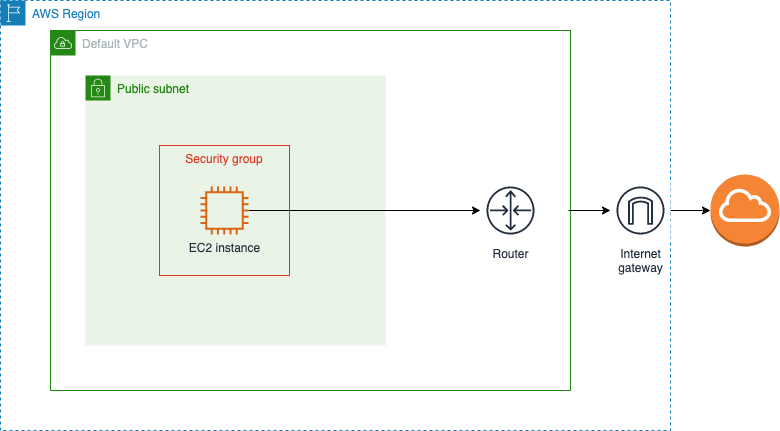
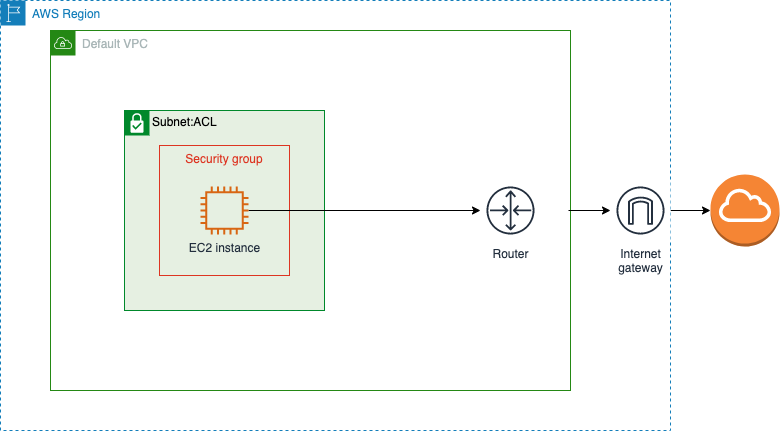
create new blog post and new infrastructure for secure vpc

Changed region(s): [[0.0923, 0.1508, 0.4923, 0.8144]]

diff --git a/blog/blog1.md b/blog/blog1.md
@@ -1,14 +1,16 @@
-# What happens when you create an EC2 instance?
+# Building a secure network in AWS (PART 1)
 
-In this post we will discuss what happens in the background when we create an EC2 instance in AWS. This would be an introductory post for another article about architecting a secure solution in a secure network in the cloud.
+Assume you've been asked to create a VM on AWS to run some critical operations for your business; it needs to access the internet, but only can be accessed by the maintainers (e.g. people/services who would want to install/upgrade the software). How would you do it?
 
-Why is that important?
+This is a series of 2 posts. In the first post, we will go over what happens when you create an EC2 instance (VM) in AWS; it would be an introductory post for another article about architecting a secure solution in a secure network in the cloud.
+
+_Why is that important?_
 
 When building solutions in the cloud, it is critical to keep security in mind. In fact, it's critical to keep it as a high priority, if not the highest.
 
 Also, I would like to highlight the importance of keeping resources within private subnets in AWS (or in any other cloud), as that's something I used to ignore as I implemented solutions progressively in the past. However, as the system scales it would be much more difficult to adjust and change these configurations.
 
-For this example, we would want to build a server that has outbound access to the internet, but denies inbound traffic except for engineers who needs to maintain that server through SSH.
+As mentioned earlier, in this example, we would want to build a server that has outbound access to the internet but denies inbound traffic except for maintainers through SSH.
 
 ## Create an EC2 instance
 
@@ -41,11 +43,11 @@ Open the AWS console, and navigate to CloudFormation. Check the events: ![CloudF
 
 Below is a set of operations executed behind the scenes when we create an EC2 instance this way (After this list we will each component explaining its functionality, which would give more familiarity with the user terms):
 
-- Obviously the VM itself got created. Navigate to EC2 and note the creation of the EC2 instance.![EC2 instance](2.EC2-Instance.png)
+- Obviously, the VM itself got created. Navigate to EC2 and note the creation of the EC2 instance.![EC2 instance](2.EC2-Instance.png)
 - Select the instance and navigate to the "Networking" tab. Note how the instance got created in a VPC and a subnet, without us explicitly specifying it.![EC2 instance - network tab](3.EC2-Instance-Network-Tab.png)
 - Navigate to the Security tab. Note that the default security group is attached to the created instance.
-  - This security group has outbound rules showing `0.0.0.0/0` as destination --> this means traffic from this instance can go to the public internet
-  - This security group has inbound rules showing all from src equal to the same security --> this means this security group is only accessible from other resources within the same security group
+  - This security group has outbound rules showing `0.0.0.0/0` as destination --> this means traffic from this instance can go to the public internet.
+  - This security group has inbound rules showing all from src equal to the same security --> this means this security group is only accessible from other resources within the same security group.
     ![EC2 instance - Security tab](4.EC2-Instance-Security-Tab.png)
 
 ## SSH to the instance
@@ -56,22 +58,26 @@ Before getting into the explanation of these components, let us try to connect t
   - This allows a simple and secure way to connect to the created EC2 instance using Secure Shell (SSH), without needing to share keys
   - The newly opened tab shows the following error: ![Connection Error](5.EC2-Connect-SSH-Error.png)
     This is because the inbound access is only allowed from resources within the same security group. To overcome that, we can edit the inbound rule on the security group to allow ssh access from your own IP address only: ![Allow SSH](6.EC2-Security-Group-Allow-SSH.png)
-    This works perfectly. Try to connect again. A shell opens now in the new tab with a successful ssh connection to the instance. Type `ping 1.1.1.1` and you should get a result.
+  - Try to connect again. A shell opens now in the new tab with a successful ssh connection to the instance. Type `ping 1.1.1.1` and you should get a result.
 
 This shows us that we are able to connect to the internet from within the instance, and we can securely SSH to the instance. This was all handled on the security level group, which should be the last level of defense ideally. How to do this in a better manner? This will be the topic of the following blog post - but would love to get your thoughts until then.
 
 ## What are all of these components that got attached/utilised?
 
-In this section we will set out in details what are these components that got created when we created our EC2 instance.
+In this section we will set out in details these components that got attached when we created our EC2 instance.
 
-First, it is worth mentioning that the EC2 service in AWS is a private service. This means it is not connected to the internet by default (this has nothing to do with the ability to access it or not, but purely related to its network setup); As you've seen in the previous post, we got some other configuration in place to get a proper connection to our EC2 instance.
+First, it is worth mentioning that the EC2 service in AWS is a private service. This means it is not connected to the internet by default (this has nothing to do with the ability to access it or not, but purely related to its network setup); As you've seen in the previous section, we got some other configuration in place to get a proper connection to our EC2 instance.
+
+In summary, The full set of used components would look something similar to the following diagram: ![Default VPC](8.EC2-instance-default-VPC.png).
+
+Below are some additional details.
 
 ### VPC - We got a VPC (Virtual private network) attached to our instance
 
-A VPC is an AWS service where your create a private isolated network. In this network you can define network addresses for your infrastructure among other details.
+A VPC is an AWS service where you create a private isolated network. In this network, you can define network addresses for your infrastructure among other details.
 
-- That's the default VPC that gets created automatically when you create an AWS account
-- The VPC is a regional service, so you would find a different default VPC in every region. The VPC attached to the EC2 instance is the one that got created in the same region having that instance
+- That's the default VPC that gets created automatically when you create an AWS account.
+- The VPC is a regional service, so you would find a different default VPC in every region. The VPC attached to the EC2 instance is the one that got created in the same region having that instance.
 
 ### Subnet
 
@@ -83,7 +89,7 @@ The default VPC has multiple subnets (one subnet in each Availability Zone of th
 
 Every VPC has a router that is used to route the traffic between subnets and controlled by a route table. When traffic leaves the subnet, the VPC router checks the destination field of the route and determines where to send to traffic using the target field.
 
-The following table shows that all traffic with destination IPs in the `172.31.0.0/16` network will target local, that's the VPC. Traffic with destination `0.0.0.0/0` will target the internet gateway: ![Route Table](7.Route-table.png)
+The following table shows that all traffic with destination IPs in the `172.31.0.0/16` network will target local, that's the VPC network. Traffic with destination `0.0.0.0/0` will target the internet gateway: ![Route Table](7.Route-table.png)
 
 ### Internet Gateway
 
@@ -91,12 +97,12 @@ It's a gateway that allows communication between the VPC and the internet.
 
 ### NACL
 
-That's the network access control list, which provides a layer of security or filtering of traffic around the subnet. By default, it allows all inbound and outbound traffic. Each subnet in the VPC is associated with this NACL. It is possibly to explicity configure it to allow or deny a certain traffic.
+That's the network access control list, which provides a layer of security or filtering of traffic around the subnet. By default, it allows all inbound and outbound traffic. Each subnet in the VPC is associated with this NACL. It is possible to explicitly configure it to allow or deny certain traffic.
 
 ### Security Group
 
-A security group also filters the trafic, but handles security differently from NACLs. By default, the Security Group has an implicit deny rule for all incoming traffic, and allows all outbound traffic. It is not possible to explicity deny traffic in a security group such as stopping traffic coming from a certain IP (that's when we use NACL)
+A security group also filters the traffic but handles security differently from NACLs. By default, the Security Group has an implicit deny rule for all incoming traffic and allows all outbound traffic. It is not possible to explicitly deny traffic in a security group such as stopping traffic coming from a certain IP (that's when we use NACL).
 
-In summary, the full setof used components would look somethig similar to the following diagram:![Default VPC](8.EC2-instance-default-VPC.png).
+I hope this was helpful. How would you suggest configuring the network the next time you are asked to create an EC2 instance?
 
-I hope this was helpful. How would you suggest to configure the network the next time you are asked to create an EC2 instance?
+Watch this space for the second part.

diff --git a/blog/blog2.md b/blog/blog2.md
@@ -1,0 +1,142 @@
+# Building a secure network in AWS (PART 2)
+
+Assume you've been asked to create a VM on AWS to run some critical operations for your business; it needs to access the internet, but only can be accessed by the maintainers (e.g. people/services who would want to install/upgrade the software). How would you do it?
+
+This is a series of 2 posts. In the first post, we went over what happens when we create an EC2 instance (VM) in AWS, where we explained how the instance gets attached to the default VPC and the traffic gets routed.
+
+In this second post, we will go over creating a full secure network where the newly created VM will operate.
+
+_Why can't we just use the default vpc?_
+The default VPC is available to get users started quickly without thinking about the underlying network. So it works great if you are doing some simple deployments, or If you are testing or experimenting in AWS.
+
+The default VPC has multiple components associated with it, such as subnets, NACLs, Security Group and Route table. Some of these component are open publicly, which does not form the most solid security practice.
+
+Moreover, using the default VPC will limit the user to using the `172.31.0.0/116` range. By having a custom VPC the customer will be able to tailor the network exactly and avoid overlapping IP addresses, including on-premise networks
+
+It is recommended to configure a custom VPC, where the user has full control over the network model and its components. This makes it easier to scale the application and architecture within private subnets.
+
+## Setup a Custom VPC
+
+In this section we will start by creating the necessary resources progressively using cloud formation. At every step of this section, I suggest you upload the template to CloudFromation and have a look at the resources that get created with the stack. Use the following command at your convenience (or upload the template manually from the console):
+
+To create the stack - `aws cloudformation create-stack --stack-name private-network --template-body file://infra/template-custom-vpc.yml`
+
+To update the stack - `aws cloudformation update-stack --stack-name private-network --template-body file://infra/template-custom-vpc.yml`
+
+### Create the VPC
+
+Use the following template to create the custom VPC:
+
+```
+Resources:
+  VPC:
+    Type: AWS::EC2::VPC
+    Properties:
+      CidrBlock: 192.168.0.0/16
+      EnableDnsSupport: true
+      EnableDnsHostnames: true
+      Tags:
+        - Key: Name
+          Value: awesome-vpc
+```
+
+In this previous snippet, we have given a name for the VPC, a CidrBlock that defines the range of IPS that could be utilised (in this case from 192.168.0.0 to 192.168.255.255). When setting the EnableDnsSupport and EnableDnsHostnames flags to true, the instances with a public IP address get corresponding public DNS hostnames, and the Amazon Route 53 Resolver server can resolve Amazon-provided private DNS hostname. If you're curious to know more check the detailed AWS documentation: https://docs.aws.amazon.com/vpc/latest/userguide/vpc-dns.html.
+
+### Create the Internet Gateway
+
+In the template file, under "Resources", add the following:
+
+```
+  InternetGateway:
+    Type: 'AWS::EC2::InternetGateway'
+    Properties:
+      Tags:
+      - Key: Name
+        Value: awesome-internet-gateway
+```
+
+This would create the internet gateway, but it won't be attached to a VPC: ![Internet Gateway](A.Internet-Gateway.png)
+
+Add the following resource to your template to attach the internet gateway to the created VPC:
+
+```
+  VpcInternetGatewayAttachment:
+    Type: 'AWS::EC2::VPCGatewayAttachment'
+    Properties:
+      VpcId: !Ref VPC
+      InternetGatewayId: !Ref InternetGateway
+```
+
+### Subnets
+
+Afterwards, we will create 2 subnets, one private and one public - the private one will contain our EC2 instance and the other can connect to the internet through the internet gateway.
+
+```
+  SubnetPrivate:
+    Type: AWS::EC2::Subnet
+    Properties:
+      VpcId: !Ref VPC
+      AvailabilityZone: !Select [ 0, !GetAZs '' ]
+      CidrBlock: 192.168.0.0/17
+      Tags:
+        - Key: Name
+          Value: subnet-private
+  SubnetPublic:
+    Type: AWS::EC2::Subnet
+    Properties:
+      VpcId: !Ref VPC
+      AvailabilityZone: !Select [ 0, !GetAZs '' ]
+      CidrBlock: 192.168.128.0/17
+      MapPublicIpOnLaunch: true
+      Tags:
+        - Key: Name
+          Value: subnet-public
+```
+
+When creating a subnet we do not deicde whether it's private or public through a configuration on creation, so for this step these are the subnets that are intended to be private and public; we will configure them for that in future steps: ![Subnets](B.Subnets.png)Notice how we split the Cidr blocks of the VPC into 2 Cidr blocks (one for each subnet). The Availability zone property uses 2 CloudFormation intrinsic functions:
+
+- GetAZs, which returns a list of all of the Availability zones for a specific region; specifying an empty string is equivalent to specifying the region in which the CloudFormation stack is created
+- Select, which returns a single object from a list of objects by index
+
+In this case, we are getting the first availability zone in the us-east-1 region, in which we're creating the stack.
+
+The MapPublicIpOnLaunch property in the public subnet indicates whether instances launched in this subnet receive a public IPv4 address. This might be confusing as we discussed creating the EC2 instance in the private network, so why are we adding this configuration? Briefly, we will create another EC2 instance in the public subnet, which would be a utility to SSH into the private subnet instance later on. We will get back to more details about this instance in the coming steps.
+
+### Route table
+
+We will now create a route table and associate it with the subnet, in addition to a default route
+
+```
+  RouteTable:
+    Type: AWS::EC2::RouteTable
+    Properties:
+      VpcId: !Ref VPC
+      Tags:
+      - Key: Name
+        Value: awesome-route-table
+  RouteTableAssociationSubnetPublic:
+    Type: AWS::EC2::SubnetRouteTableAssociation
+    Properties:
+      SubnetId: !Ref SubnetPublic
+      RouteTableId:
+        Ref: RouteTable
+  RouteTableDefaultIPv4:
+    Type: 'AWS::EC2::Route'
+    DependsOn: VpcInternetGatewayAttachment
+    Properties:
+      RouteTableId:
+        Ref: RouteTableWeb
+      DestinationCidrBlock: '0.0.0.0/0'
+      GatewayId:
+        Ref: InternetGateway
+```
+
+Looking at the created route table, we will see it associated with the public subnet, and has the following routes: ![Route Table](C.Route-Table.png)
+
+### NAT Gateway
+
+The NAT(Network Address Translation) is the method of giving a private resource access to the internet. It always uses Elastic IPs (Static public IPs).
+
+### Bastion host
+
+In the subnets section we mentioned the creation of an EC2 instance in the public subnet. That would be the bastion host. It is a server whose purpose is to provide access to a private network from an external network (e.g. the internet); we will use it in our case to allow the maintainers SSH access to the private EC2 instance, which we will create in the next step.
